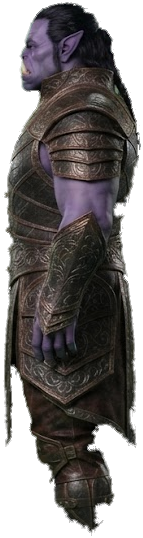
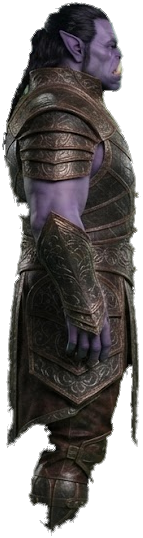
Fix Skorn facing the wrong way when walking sideways (his side art faced left; mirrored)
Claude-Session: https://claude.ai/code/session_01HdXANjQB24G9GX4q77Lies

diff --git a/notes.md b/notes.md
@@ -7,4 +7,4 @@ Quick notes and workshop ideas from Ebain. These are not claimed work, they're p
 - **Diddy Chud Giant sleeping pose**: Change him to display as properly sleeping instead of sideways/mad then standing up. Make the wake-up transition more seamless.
 - **Map in the inventory** (from Asar): When Skorn picks up the map to the Metocy at camp, it should show up in the inventory (Tab) as a key item.
 - **Lykor Mog camera**: When Lykor uses his Mog combat move, push the camera right up close to his face to show off his chiseled jawline.
-- **Skorn facing direction**: When walking side to side as Skorn, he is not facing the correct way.
+- **Skorn facing direction**: When walking side to side as Skorn, he is not facing the correct way. ✅ *Fixed 11/21 (Ebain's Claude): his side picture faced left, the game expects right. Mirrored it.*
